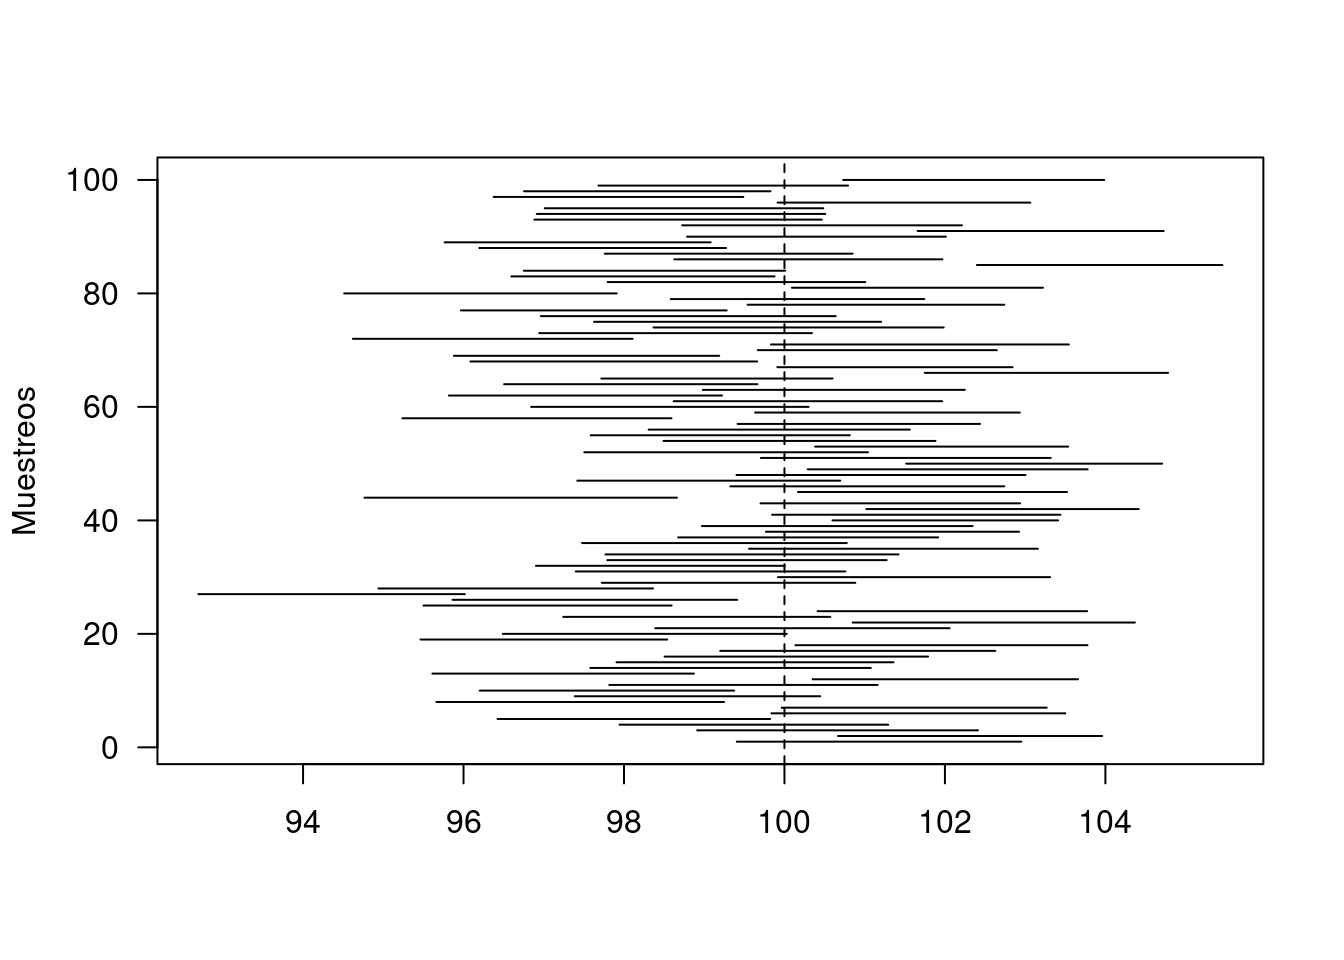
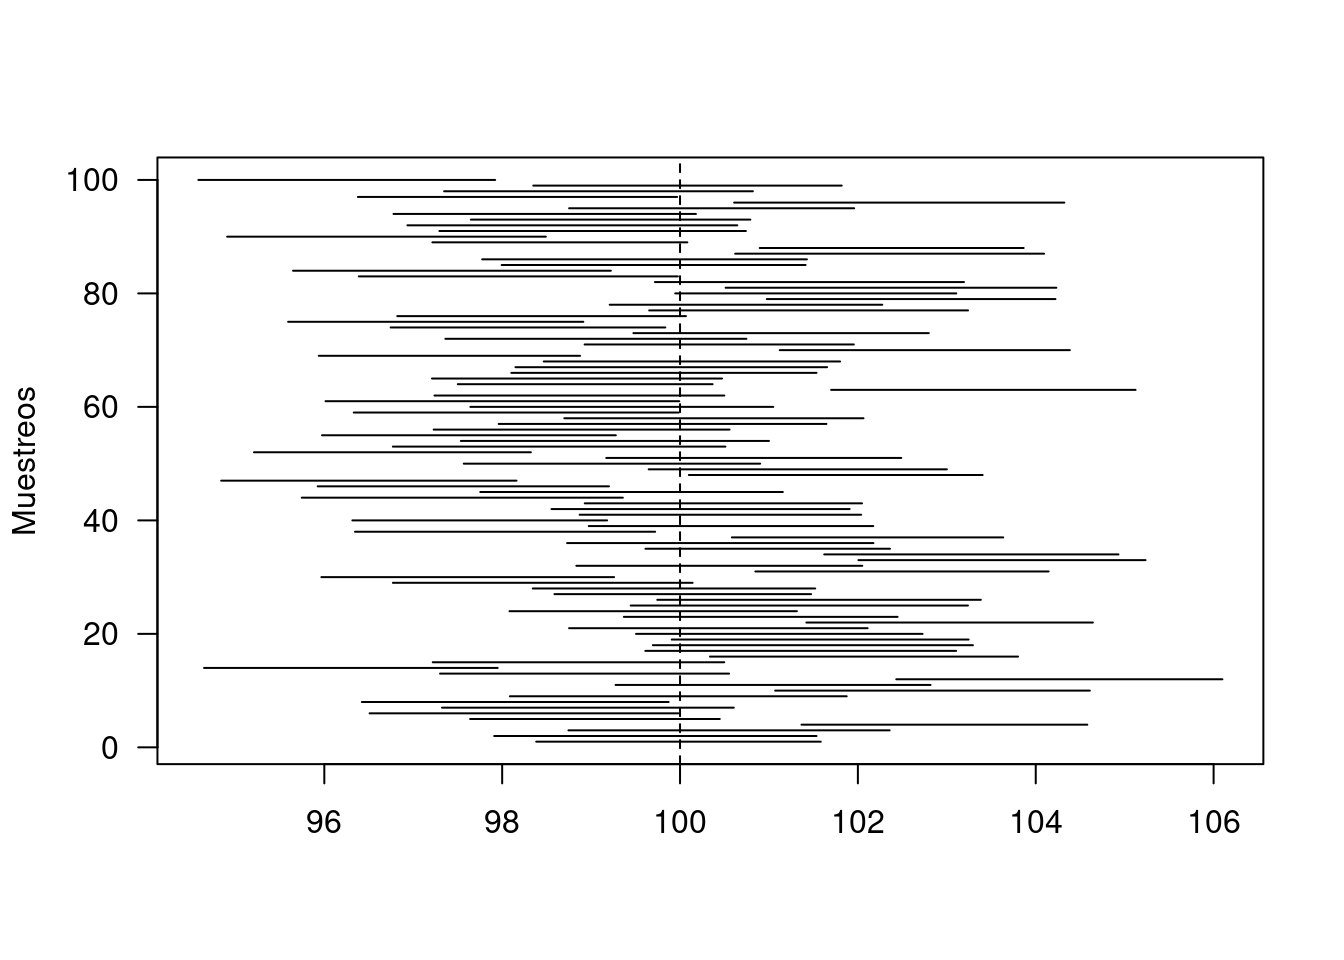
add metodos ic no parametricos

diff --git a/Guia402.html b/Guia402.html
@@ -780,7 +780,7 @@ e=1 # año
 n=(za1.2)^2*(s2.edad)/(e^2)
 
 round(n,0)  # redondeo a entero</code></pre>
-<pre><code>## [1] 1829</code></pre>
+<pre><code>## [1] 1754</code></pre>
 <p><br/><br/></p>
 </div>
 <div id="intervalos-de-confianza-para-la-proporción" class="section level3">
@@ -1085,6 +1085,38 @@ summary(inf.fin)</code></pre>
 </div>
 <p><br/><br/><br/><br/></p>
 </div>
+</div>
+<div id="intervalos-no-paraétricos" class="section level2">
+<h2><strong>Intervalos no paraétricos</strong></h2>
+<p>Cuando se extrae una muestra de una población que no es normal y se requiere estimar un intervalo de confianza se pueden utilizar los métodos de estimación <strong>bootstrap</strong>. Existen varias versiones del método. Una presentación básica del método se describe a continuación:</p>
+<p>El artículo de In-use Emissions from Heavy Duty Dissel Vehicles (J.Yanowitz, 2001) presenta las mediciones de eficiencia de combustible en millas/galón de una muestra de siete camiones. Los datos obtenidos son los siguientes: 7.69, 4.97, 4.56, 6.49, 4.34, 6.24 y 4.45. Se supone que es una muestra aleatoria de camiones y que se desea construir un intervalo de confianza del 95 % para la media de la eficiencia de combustible de esta población. No se tiene información de la distribución de los datos. El método bootstrap permite construir intervalos de confianza del 95 % - Para ilustrar el método suponga que coloca los valores de la muestra en una caja y extrae uno al azar. Este correspondería al primer valor de la muestra bootstrap <span class="math inline">\(X^{∗}_{1}\)</span>. Después de anotado el valor se regresa <span class="math inline">\(X^{∗}_{1}\)</span> a la caja y se extrae el valor <span class="math inline">\(X^{∗}_{2}\)</span> , regresandolo nuevamente. Este procedimiento se repite hasta completar una muestra de tamaño <span class="math inline">\(n\)</span>, <span class="math inline">\(X^{∗}_{1}\)</span>,<span class="math inline">\(X^{∗}_{2}\)</span>,<span class="math inline">\(X^{∗}_{2}\)</span>,<span class="math inline">\(X^{∗}_{n}\)</span>, conformando la muestra bootstrap.</p>
+<p>Es necesario extraer un gran número de muestras (suponga k = 1000). Para cada una de las muestra bootstrap obtenidas se calcula la media <span class="math inline">\(\bar{X^{∗}_{i}}\)</span>, obteniéndose un valor para cada muestra. El intervalo de confianza queda conformado por los percentiles <span class="math inline">\(P_{2.5}\)</span> y <span class="math inline">\(P_{97.5}\)</span>. Existen dos métodos para estimarlo:</p>
+<table>
+<tbody>
+<tr class="odd">
+<td align="left">Método 1</td>
+<td align="center"><span class="math inline">\((P_{2.5}; P_{97.5})\)</span></td>
+</tr>
+<tr class="even">
+<td align="left">Método 2</td>
+<td align="center"><span class="math inline">\((2\bar{X} − P_{97.5}; 2\bar{X} − P_{2.5})\)</span></td>
+</tr>
+</tbody>
+</table>
+<p>Construya el intervalo de confianza por los dos métodos y compare los resultados obtenidos. Tomado de Navidi(2006)</p>
+<pre class="r"><code>x=c( 7.69, 4.97, 4.56, 6.49, 4.34, 6.24, 4.45) # datos muestra
+boot=sample(x,7000,replace=TRUE)   # se extraen n x m muestras
+b=matrix(boot,nrow=1000,ncol=7)    # se construye matriz de n x m 
+mx=apply(b,1,mean)                 # se calculan m medias por fila
+ic1=quantile(mx, probs=c(0.025, 0.975)) # se calcula IC metodo 1
+ic1</code></pre>
+<pre><code>##    2.5%   97.5% 
+## 4.71000 6.45025</code></pre>
+<pre class="r"><code>ic2=c(2*mean(mx)-ic1[2], 2*mean(mx)-ic1[1]) # se calcula IC metodo 2
+ic2</code></pre>
+<pre><code>##    97.5%     2.5% 
+## 4.664281 6.404531</code></pre>
+<p><br/><br/><br/><br/></p>
 </div>
 </div>
 <div id="conceptos" class="section level1">

diff --git a/codigo402.html b/codigo402.html
@@ -586,7 +586,7 @@ for(i in 1:100) {
 <p>Como ejemplo se estima un IC para la edad de las personas contagiadas de covid en Valle, para una muestra de n=1000</p>
 <pre class="r"><code>Muestra= Valle[sample(1:nrow(Valle),1000,replace=F),]
 t.test(Muestra$edad,conf.level = 0.95)$conf.int</code></pre>
-<pre><code>## [1] 39.41719 41.65481
+<pre><code>## [1] 40.64325 42.88475
 ## attr(,&quot;conf.level&quot;)
 ## [1] 0.95</code></pre>
 <p><br/><br/></p>
@@ -598,7 +598,7 @@ t.test(Muestra$edad,conf.level = 0.95)$conf.int</code></pre>
 <pre class="r"><code>Muestra= Valle[sample(1:nrow(Valle),1000,replace=F),]
 t1=table(Muestra$estado)
 prop.test(t1[1],1000, conf.level = 0.95)$conf.int</code></pre>
-<pre><code>## [1] 0.01658466 0.03723503
+<pre><code>## [1] 0.01985396 0.04192127
 ## attr(,&quot;conf.level&quot;)
 ## [1] 0.95</code></pre>
 <p><br/><br/></p>
@@ -617,7 +617,7 @@ ic.var=function(x,a){
 }
 x1=rnorm(100)
 ic.var(x1, 0.05)</code></pre>
-<pre><code>## [1] 0.7871388 1.3779231</code></pre>
+<pre><code>## [1] 0.725112 1.269342</code></pre>
 </div>
 <div id="ic-comparación-varianzas" class="section level2">
 <h2><strong>IC comparación varianzas</strong></h2>
@@ -629,7 +629,7 @@ datax=Valle1[sample(1:nrow(Valle1),100,replace=F),]
 datay=Valle2[sample(1:nrow(Valle2),100,replace=F),]
 
 var.test(datax$edad, datay$edad)$conf.int </code></pre>
-<pre><code>## [1] 0.606727 1.340194
+<pre><code>## [1] 0.7146846 1.5786602
 ## attr(,&quot;conf.level&quot;)
 ## [1] 0.95</code></pre>
 <p><br/><br/></p>
@@ -643,7 +643,7 @@ var.test(datax$edad, datay$edad)$conf.int </code></pre>
        paired = FALSE, 
        var.equal = TRUE,
        conf.level = 0.95 )$conf.int </code></pre>
-<pre><code>## [1] -5.102591  5.922591
+<pre><code>## [1] -4.606634  5.606634
 ## attr(,&quot;conf.level&quot;)
 ## [1] 0.95</code></pre>
 <p><br/><br/></p>
@@ -654,7 +654,7 @@ var.test(datax$edad, datay$edad)$conf.int </code></pre>
        paired = FALSE, 
        var.equal = FALSE,
        conf.level = 0.95 )$conf.int</code></pre>
-<pre><code>## [1] -5.102681  5.922681
+<pre><code>## [1] -4.606663  5.606663
 ## attr(,&quot;conf.level&quot;)
 ## [1] 0.95</code></pre>
 <p><br/><br/><br/></p>
@@ -666,7 +666,7 @@ var.test(datax$edad, datay$edad)$conf.int </code></pre>
 <pre class="r"><code>Muestra= Valle[sample(1:nrow(Valle),1000,replace=F),]
 t1=table(Muestra$estado)
 prop.test(c(t1[2],t1[3]),c(1000,1000), conf.level = 0.95)$conf.int</code></pre>
-<pre><code>## [1] 0.9468195 0.9731805
+<pre><code>## [1] 0.9399666 0.9680334
 ## attr(,&quot;conf.level&quot;)
 ## [1] 0.95</code></pre>
 </div>
